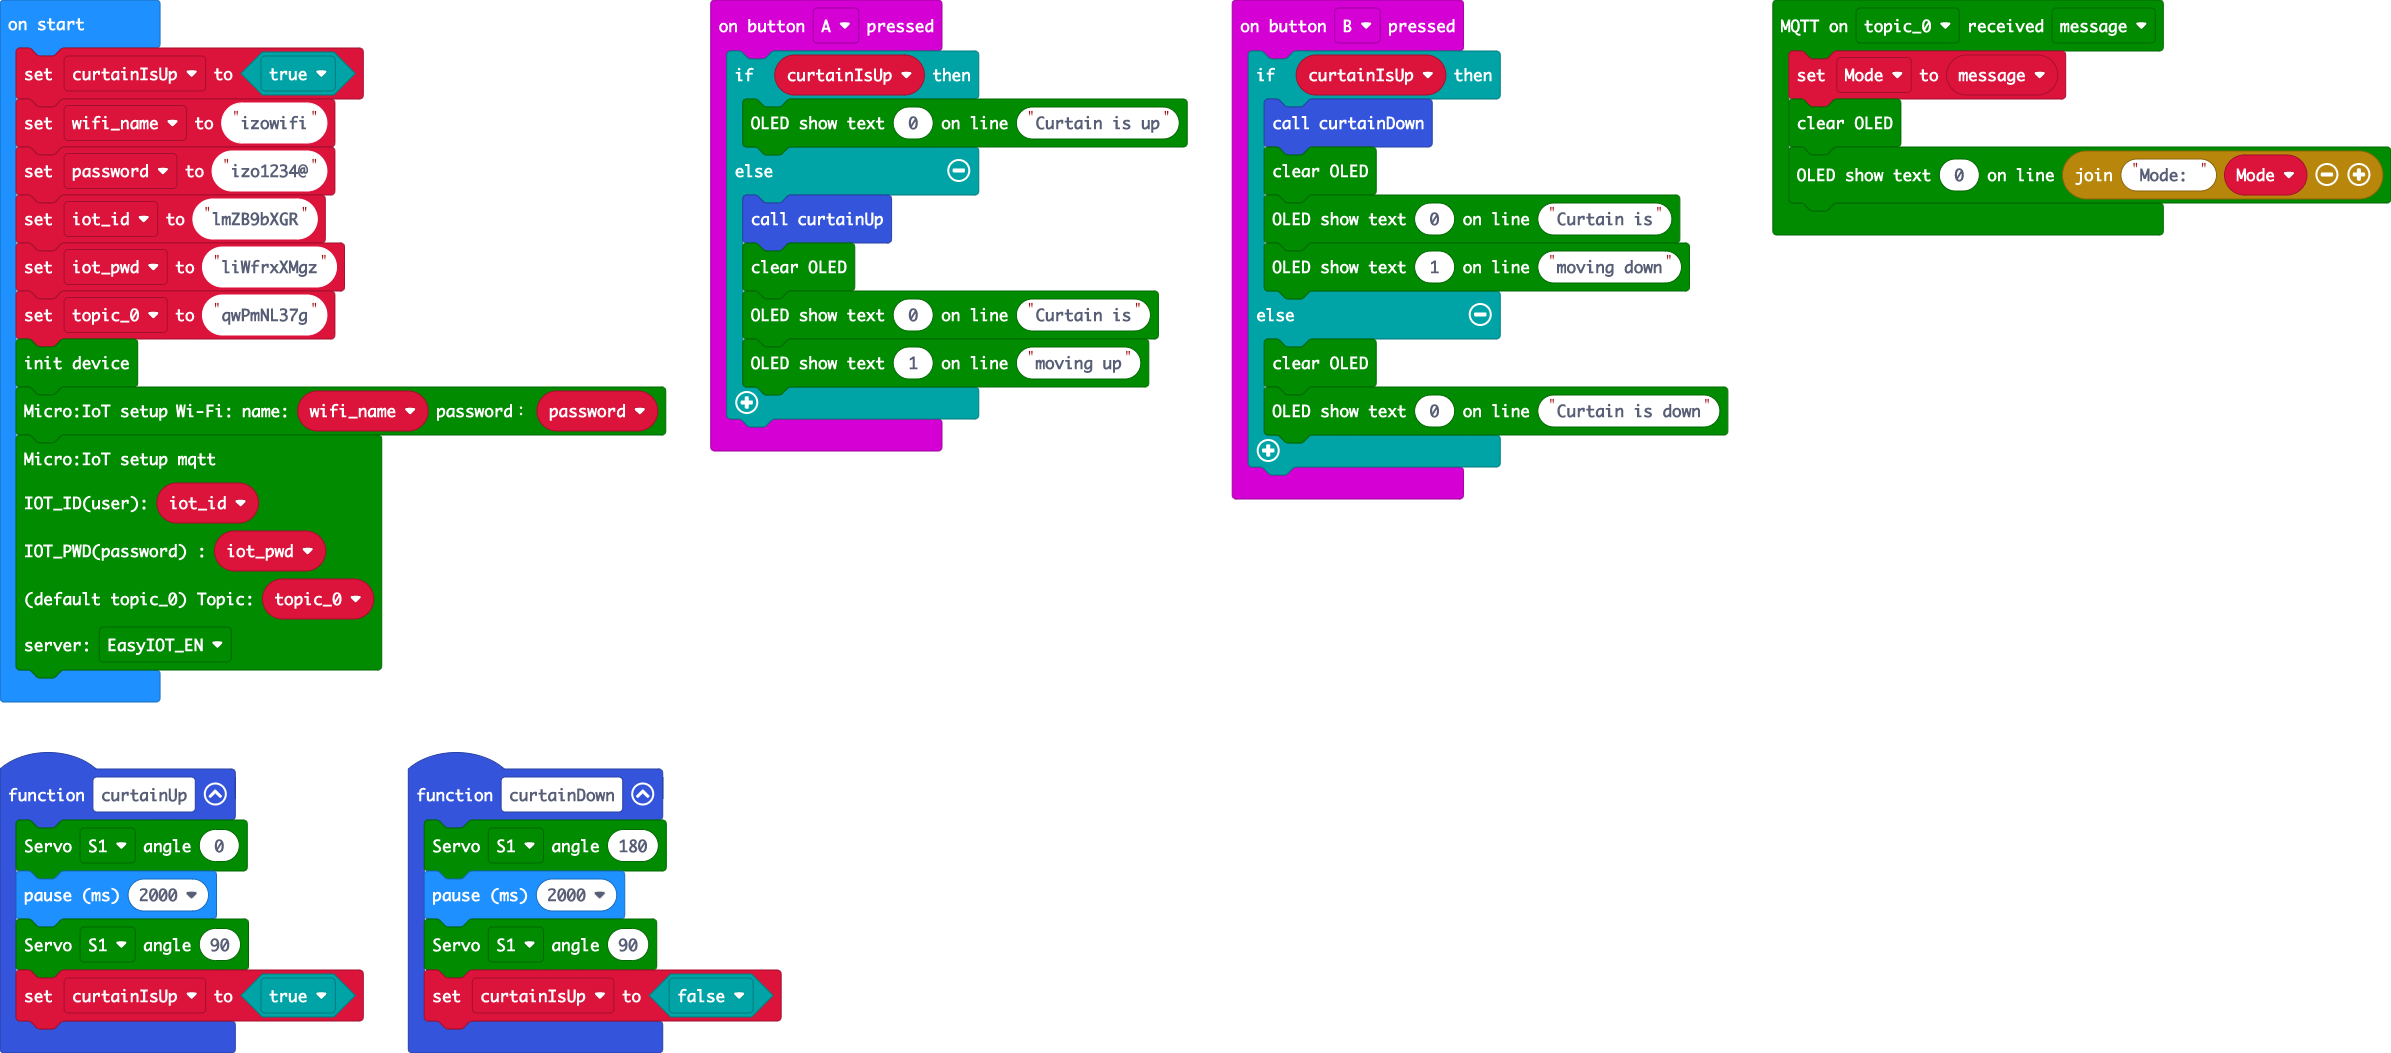
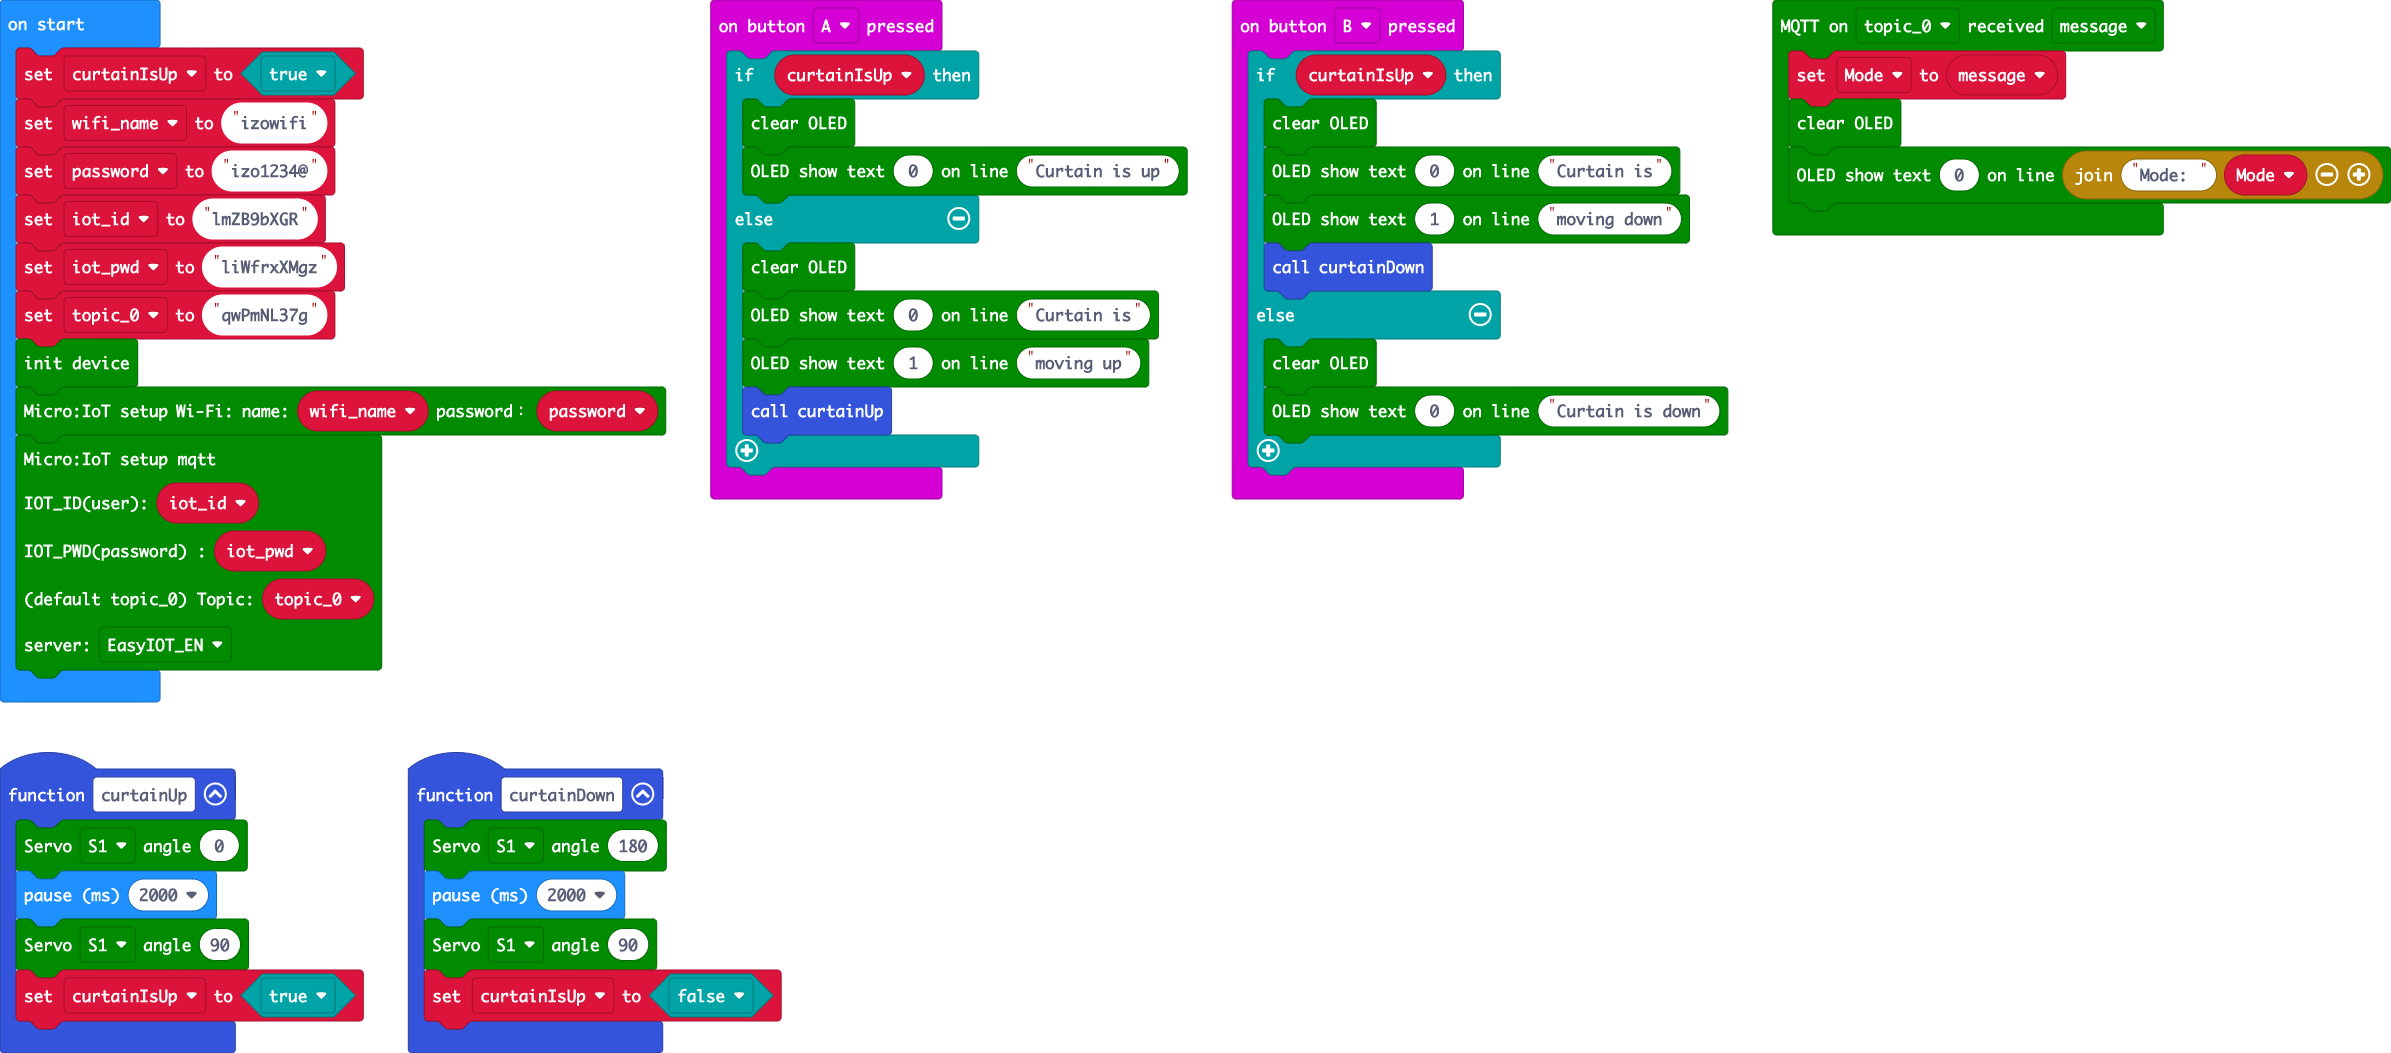
Update main.blocks, main.ts

Changed region(s): [[0.5261, 0.0912, 0.7118, 0.3039], [0.3095, 0.0912, 0.4952, 0.2431], [0.2785, 0.3647, 0.4333, 0.4862]]

diff --git a/main.ts b/main.ts
@@ -11,12 +11,13 @@ function curtainUp () {
 }
 input.onButtonPressed(Button.A, function () {
     if (curtainIsUp) {
+        microIoT.microIoT_clear()
         microIoT.microIoT_showUserText(0, "Curtain is up")
     } else {
-        curtainUp()
         microIoT.microIoT_clear()
         microIoT.microIoT_showUserText(0, "Curtain is")
         microIoT.microIoT_showUserText(1, "moving up")
+        curtainUp()
     }
 })
 function curtainDown () {
@@ -27,10 +28,10 @@ function curtainDown () {
 }
 input.onButtonPressed(Button.B, function () {
     if (curtainIsUp) {
-        curtainDown()
         microIoT.microIoT_clear()
         microIoT.microIoT_showUserText(0, "Curtain is")
         microIoT.microIoT_showUserText(1, "moving down")
+        curtainDown()
     } else {
         microIoT.microIoT_clear()
         microIoT.microIoT_showUserText(0, "Curtain is down")
